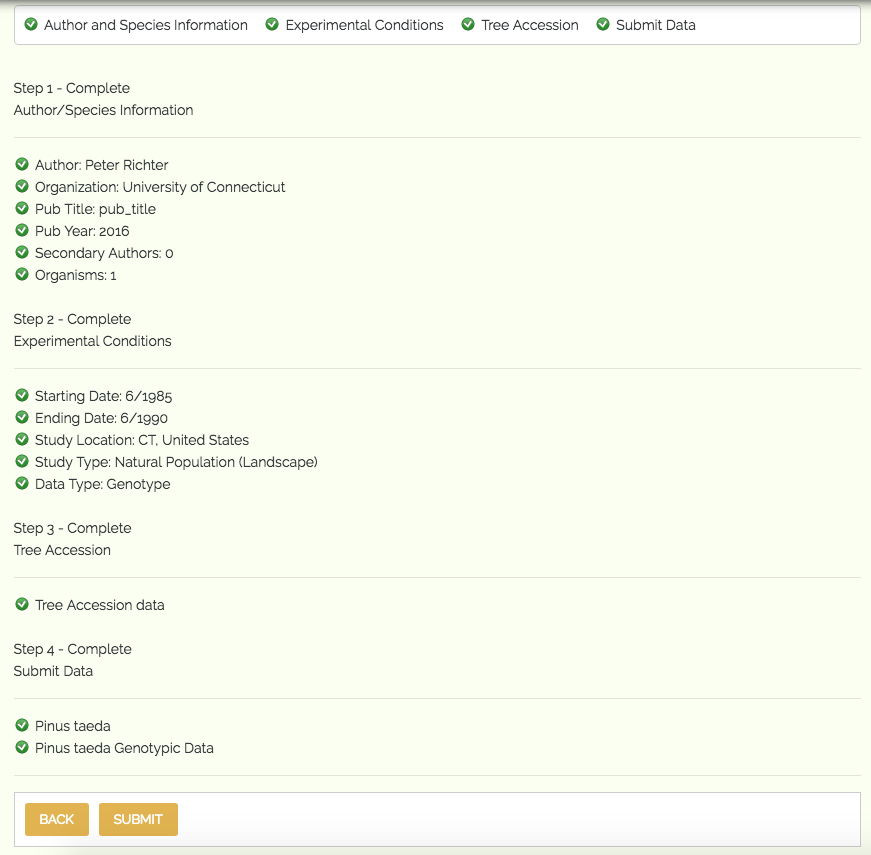
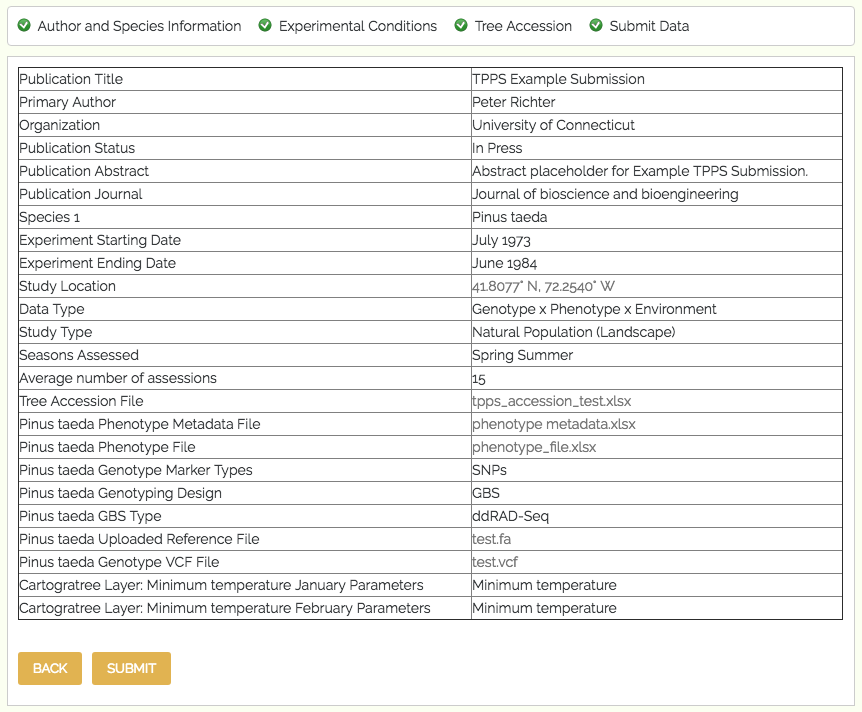
Updated screenshots for pages 3 and 4.

diff --git a/docs/source/user_pages/page_4.rst b/docs/source/user_pages/page_4.rst
@@ -24,6 +24,18 @@ Phenotype fields are only visible when 'Genotype x Phenotype', 'Genotype x Pheno
 
 * Phenotype Data: file upload - The phenotype data. This file should contain the 'Tree Id' of the tree that the phenotype is describing, the 'Name/Identifier' of the phenotype, and the 'Value' that was actually measured for this phenotype.
 
+A screenshot of the manual phenotype information fields can be seen below:
+
+.. image:: ../../../images/TPPS_phenotype_manual.png
+
+A screenshot of the phenotype metadata file field can be seen below:
+
+.. image:: ../../../images/TPPS_phenotype_meta.png
+
+A screenshot of the phenotype data file field can be seen below:
+
+.. image:: ../../../images/TPPS_phenotype_data.png
+
 Genotype
 ========
 
@@ -40,6 +52,11 @@ Genotype fields are only visible when 'Genotype', 'Genotype x Phenotype', 'Genot
 
 * SSRs/cpSSRs Type: text field - The type of SSRs/cpSSRs marker. Only visisble when 'SSRs/cpSSRs' was selected from the 'Genotype Marker Type' field.
 * Other Marker Type: text field - The type of genotype marker. Only visisble when 'Other' was selected from the 'Genotype Marker Type' field.
+
+A screenshot of the genotype marker type fields can be seen below:
+
+.. image:: ../../../images/TPPS_genotype_marker.png
+
 * Reference Genome/Assembly: drop-down menu - The reference genome/assembly: TPPS finds local reference genomes from the site it is installed on and their versions, and presents them as options in this drop-down. The other available options for a reference genome/assembly are: 'I can provide a URL to the website of my reference file(s)', 'I can provide a GenBank accession number (BioProject, WGS, TSA) and select assembly file(s) from a list', 'I can upload my own reference genome file', 'I can upload my own reference transcriptome file', 'I am unable to provide a reference assembly'.
 * External Reference Genome/Assembly: Either upload or locate the genome/assembly file(s).
 
@@ -47,13 +64,19 @@ Genotype fields are only visible when 'Genotype', 'Genotype x Phenotype', 'Genot
    * Load Reference from URL: For 'I can provide a URL to the website of my reference file(s)' option, you will be presented with a set of form fields based on the 'Tripal FASTA Loader'. You can skip the 'Existing File(s)' and 'You may select a file that is already uploaded' sections. You will just need to specify the remote path of the reference, the analysis type, and the sequence type. If you would like, you can also specify an external database where the sequences from your url have a cross-reference. If you do, you will also need to provide a regular expression for the accession number. External database cross-reference and accession number are not required.
    * Upload Reference manually: For the 'I can upload my own reference genome file', or 'I can upload my own reference transcriptome file' options, you will be presented with a set of form fields based on the 'Tripal FASTA Loader'. You only need to supply a file from the 'Existing File(s)' **or** the 'You may select a file that is already uploaded' section. You can skip the 'Remote path' section. You will need to specify the assembly type and sequence type. External database for cross-reference and regular expression for external database accession number are optional.
 
+A screenshot of the genotype reference fields can be seen below:
+
+.. image:: ../../../images/TPPS_genotype_ref.png
+
 * Genotype File Types: checkboxes - 'Genotype Spreadsheet/Assay', 'Assay Design', 'VCF'. Select all that apply. 'Assay Design' is only visible when 'SNPs' was selected from the 'Genotype Marker Type' field.
 * Genotype Spreadsheet/Assay File: file upload - The genotype assay file. You will be required to specify which of your columns holds the Tree ID and genotype data in each row of your file. Only visible when 'Genotype Spreadsheet/Assay' was selected from the 'Genotype File Types' field.
 * Assay Design File: file upload - The assay design file. Only visible when 'Assay Design' was selected from the 'Genotype File Types' field.
 * VCF File: file upload - The VCF file. Only visible when 'VCF' was selected from the 'Genotype File Types' field.
 
-.. _`Study Design`: page_2.html
+A screenshot of the genotype file fields can be seen below:
 
-.. image:: ../../../images/TPPS_data.png
+.. image:: ../../../images/TPPS_genotype_file.png
+
+.. _`Study Design`: page_2.html
 
 

diff --git a/docs/source/admin_pages/page_4.rst b/docs/source/admin_pages/page_4.rst
@@ -25,6 +25,18 @@ Phenotype
      * Phenotype File: ``managed_file`` - spreadsheet of phenotypes
      * Phenotype File Columns: ``fieldset`` of ``select`` elements - user will define which of their columns contain the Tree ID, Phenotype Name/Identifier, and Phenotype value
 
+A screenshot of the manual phenotype information fields can be seen below:
+
+.. image:: ../../../images/TPPS_phenotype_manual.png
+
+A screenshot of the phenotype metadata file field can be seen below:
+
+.. image:: ../../../images/TPPS_phenotype_meta.png
+
+A screenshot of the phenotype data file field can be seen below:
+
+.. image:: ../../../images/TPPS_phenotype_data.png
+
 Genotype
 ========
 
@@ -41,20 +53,31 @@ Genotype
 
      * Genotype SSRs/cpSSRs Type: ``textfield`` - only visible if the user selects 'SSRs/cpSSRs' from 'Genotype Marker Type'
      * Genotype Other Marker Type: ``textfield`` - only visible if the user selects 'Other' from 'Genotype Marker Type'
+
+A screenshot of the genotype marker type fields can be seen below:
+
+.. image:: ../../../images/TPPS_genotype_marker.png
+
      * Reference Genome: ``select`` - stored reference genomes, as well as 'I can provide a URL to the website of my reference file(s)', 'I can provide a GenBank accession number (BioProject, WGS, TSA) and select assembly file(s) from a list', 'I can upload my own reference genome file', 'I can upload my own reference transcriptome file', 'I am unable to provide a reference assembly'
      * BioProject Accession: ``textfield`` - only visible if the user selects 'I can provide a GenBank accession number (BioProject, WGS, TSA) and select assembly file(s) from a list' from 'Reference Genome'
 
          * NCBI Assembly Accessions: ``checkboxes`` - options pulled directly from NCBI
 
      * URL or Manual Assembly File: ``fieldset`` - Tripal FASTA Loader fields - only visible if the user selects 'I can provide a URL to the website of my reference file(s)', 'I can upload my own reference genome file', or 'I can upload my own reference transcriptome file' from 'Reference Genome'
+
+A screenshot of the genotype reference fields can be seen below:
+
+.. image:: ../../../images/TPPS_genotype_ref.png
+
      * Genotype File Type: ``checkboxes`` - options 'Genotype Spreadsheet/Assay', 'Assay Design', 'VCF'. 'Assay Design' only visible if the user selects 'SNPs' from 'Genotype Marker Type'.
      * Genotype VCF File: ``managed_file`` - .VCF file of genotypes - only visible if the user selects 'VCF' from 'Genotype File Type'
      * Genotype File: ``managed_file`` - spreadsheet of genotypes - only visible if the user selects 'Genotype Spreadsheet/Assay' from 'Genotype File Type'
      * Genotype File Columns: ``fieldset`` of ``select`` elements - user will define which of their columns contain the Tree ID and Genotype Data
      * Assay Design File: ``managed_file`` - Assay design file - only visible if the user selects 'Assay Design' from 'Genotype File Type'
 
+A screenshot of the genotype file fields can be seen below:
+
+.. image:: ../../../images/TPPS_genotype_file.png
+
 .. _`Study Design`: page_2.html
-
-.. image:: ../../../images/TPPS_data.png
-
 
